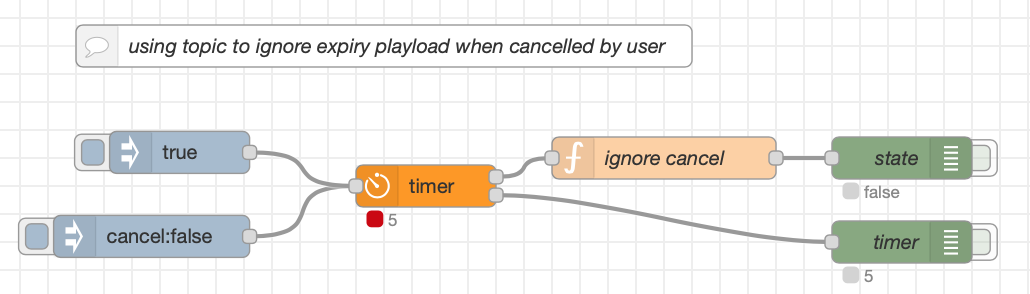
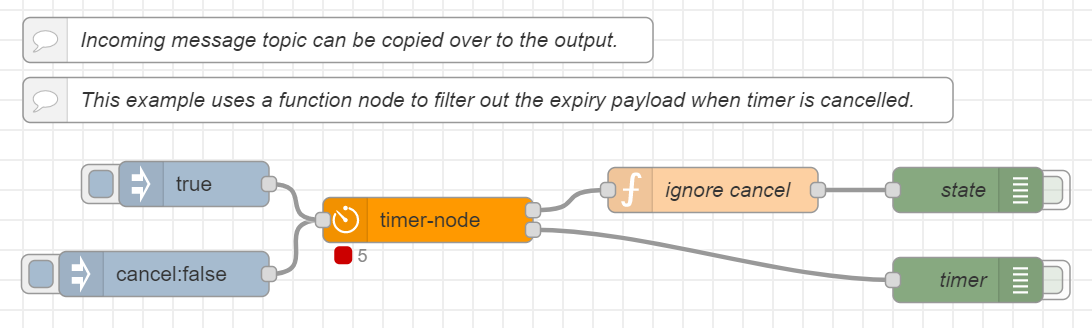
updated examples
corrected typos in examples.
provided clearer explanation of examples.
updated example images.

diff --git a/README.md b/README.md
@@ -46,26 +46,32 @@ Set expiry time with `msg.payload`:
 
 # Examples #
 
-### Using function to filter cancel by topic ###
+### Using topic to filter payload when cancelled ###
+
+When no _topic_ property is defined in the node, the incoming _topic_ is copied over to the output. This can be used to filter out the expiry payload when the timer is cancelled.
 
 ![canceling expiry](images/img_example_cancel.png)
 
 ```
-[{"id":"38a5c6e.079893a","type":"tab","label":"timer ignore cancel","disabled":false,"info":""},{"id":"b5e83fc7.69dc8","type":"debug","z":"38a5c6e.079893a","name":"state","active":false,"tosidebar":true,"console":false,"tostatus":true,"complete":"true","targetType":"full","statusVal":"payload","statusType":"auto","x":670,"y":140,"wires":[]},{"id":"6fb05b68.183e3c","type":"debug","z":"38a5c6e.079893a","name":"timer","active":false,"tosidebar":true,"console":false,"tostatus":true,"complete":"true","targetType":"full","statusVal":"payload","statusType":"auto","x":670,"y":200,"wires":[]},{"id":"72a3e721.0cc288","type":"inject","z":"38a5c6e.079893a","name":"","props":[{"p":"payload"},{"p":"topic","vt":"str"}],"repeat":"","crontab":"","once":false,"onceDelay":0.1,"topic":"cancel","payload":"false","payloadType":"bool","x":134,"y":196,"wires":[["cef7e1ee.595258"]]},{"id":"84f20a87.3a0308","type":"inject","z":"38a5c6e.079893a","name":"","props":[{"p":"payload"}],"repeat":"","crontab":"","once":false,"onceDelay":0.1,"topic":"","payload":"true","payloadType":"bool","x":154,"y":136,"wires":[["cef7e1ee.595258"]]},{"id":"48ce8bab.3c0634","type":"function","z":"38a5c6e.079893a","name":"ignore cancel","func":"if (msg.topic != 'cancel') {\n    return msg;\n}","outputs":1,"noerr":0,"initialize":"","finalize":"","x":500,"y":140,"wires":[["b5e83fc7.69dc8"]]},{"id":"cef7e1ee.595258","type":"timer","z":"38a5c6e.079893a","name":"","topic":"","timer":"5","payloadOn":"true","payloadOnType":"bool","payloadOff":"false","payloadOffType":"bool","x":330,"y":160,"wires":[["48ce8bab.3c0634"],["6fb05b68.183e3c"]]},{"id":"225ff94.486e486","type":"comment","z":"38a5c6e.079893a","name":"using topic to ignore expiry playload when cancelled by user","info":"","x":300,"y":60,"wires":[]}]
+[{"id":"38a5c6e.079893a","type":"tab","label":"ignore cancel","disabled":false,"info":""},{"id":"b5e83fc7.69dc8","type":"debug","z":"38a5c6e.079893a","name":"state","active":false,"tosidebar":true,"console":false,"tostatus":true,"complete":"true","targetType":"full","statusVal":"payload","statusType":"auto","x":670,"y":140,"wires":[]},{"id":"6fb05b68.183e3c","type":"debug","z":"38a5c6e.079893a","name":"timer","active":false,"tosidebar":true,"console":false,"tostatus":true,"complete":"true","targetType":"full","statusVal":"payload","statusType":"auto","x":670,"y":200,"wires":[]},{"id":"72a3e721.0cc288","type":"inject","z":"38a5c6e.079893a","name":"","props":[{"p":"payload"},{"p":"topic","vt":"str"}],"repeat":"","crontab":"","once":false,"onceDelay":0.1,"topic":"cancel","payload":"false","payloadType":"bool","x":134,"y":196,"wires":[["d96dea31904032b8"]]},{"id":"84f20a87.3a0308","type":"inject","z":"38a5c6e.079893a","name":"","props":[{"p":"payload"}],"repeat":"","crontab":"","once":false,"onceDelay":0.1,"topic":"","payload":"true","payloadType":"bool","x":154,"y":136,"wires":[["d96dea31904032b8"]]},{"id":"48ce8bab.3c0634","type":"function","z":"38a5c6e.079893a","name":"ignore cancel","func":"if (msg.topic != 'cancel') {\n    return msg;\n}","outputs":1,"noerr":0,"initialize":"","finalize":"","x":500,"y":140,"wires":[["b5e83fc7.69dc8"]]},{"id":"225ff94.486e486","type":"comment","z":"38a5c6e.079893a","name":"Incoming message topic can be copied over to the output.","info":"","x":250,"y":40,"wires":[]},{"id":"d96dea31904032b8","type":"timer-node","z":"38a5c6e.079893a","name":"","topic":"","timer":"5","payloadOn":"false","payloadOnType":"bool","payloadOff":"true","payloadOffType":"bool","x":310,"y":160,"wires":[["48ce8bab.3c0634"],["6fb05b68.183e3c"]]},{"id":"bd55ac20a78e44fc","type":"comment","z":"38a5c6e.079893a","name":"This example uses a function node to filter out the expiry payload when timer is cancelled.","info":"","x":350,"y":80,"wires":[]}]
 ```
 
-### message propegation ###
+### Message property propegation ###
+
+properties defined in the incoming `msg` object are copied over to the outputs. The payload is changed and topic (if defined in the node).
 
 ![msg propegation](images/img_example_msgpass.png)
 
 ```
-[{"id":"8af9695e.73126","type":"tab","label":"timer msg propegation","disabled":false,"info":""},{"id":"7fa42302.298614","type":"timer","z":"8af9695e.73126","name":"","topic":"","timer":"5","payloadOn":"true","payloadOnType":"bool","payloadOff":"false","payloadOffType":"bool","x":390,"y":160,"wires":[["3a0fe194.c88de6","40a132b2.d74a8c","d2e4815a.235dd"],["c830b39e.c0c1"]]},{"id":"43d996ab.f0fa48","type":"inject","z":"8af9695e.73126","name":"","props":[{"p":"payload"},{"p":"topic","vt":"str"},{"p":"foo","v":"bar","vt":"str"}],"repeat":"","crontab":"","once":false,"onceDelay":0.1,"topic":"object copying","payload":"true","payloadType":"bool","x":210,"y":140,"wires":[["7fa42302.298614"]]},{"id":"c830b39e.c0c1","type":"debug","z":"8af9695e.73126","name":"timer","active":false,"tosidebar":true,"console":false,"tostatus":true,"complete":"true","targetType":"full","statusVal":"payload","statusType":"auto","x":590,"y":280,"wires":[]},{"id":"3a0fe194.c88de6","type":"debug","z":"8af9695e.73126","name":"","active":false,"tosidebar":true,"console":false,"tostatus":true,"complete":"payload","targetType":"msg","statusVal":"payload","statusType":"auto","x":610,"y":140,"wires":[]},{"id":"40a132b2.d74a8c","type":"debug","z":"8af9695e.73126","name":"","active":false,"tosidebar":true,"console":false,"tostatus":true,"complete":"foo","targetType":"msg","statusVal":"payload","statusType":"auto","x":600,"y":200,"wires":[]},{"id":"d2e4815a.235dd","type":"debug","z":"8af9695e.73126","name":"","active":false,"tosidebar":true,"console":false,"tostatus":true,"complete":"topic","targetType":"msg","statusVal":"payload","statusType":"auto","x":600,"y":80,"wires":[]},{"id":"3b550efa.cdb4aa","type":"inject","z":"8af9695e.73126","name":"","props":[{"p":"payload"},{"p":"topic","vt":"str"},{"p":"foo","v":"cis boom bah","vt":"str"}],"repeat":"","crontab":"","once":false,"onceDelay":0.1,"topic":"object copying cancelled","payload":"false","payloadType":"bool","x":180,"y":220,"wires":[["7fa42302.298614"]]},{"id":"8d7ff426.ad474","type":"comment","z":"8af9695e.73126","name":"last received msg object is copied to outputs","info":"","x":210,"y":80,"wires":[]}]
+[{"id":"8af9695e.73126","type":"tab","label":"msg property propagation","disabled":false,"info":""},{"id":"43d996ab.f0fa48","type":"inject","z":"8af9695e.73126","name":"","props":[{"p":"payload"},{"p":"topic","vt":"str"},{"p":"foo","v":"bar","vt":"str"}],"repeat":"","crontab":"","once":false,"onceDelay":0.1,"topic":"object copying","payload":"true","payloadType":"bool","x":190,"y":140,"wires":[["1421f228d1843b9b"]]},{"id":"c830b39e.c0c1","type":"debug","z":"8af9695e.73126","name":"timer","active":false,"tosidebar":true,"console":false,"tostatus":true,"complete":"true","targetType":"full","statusVal":"payload","statusType":"auto","x":610,"y":280,"wires":[]},{"id":"3a0fe194.c88de6","type":"debug","z":"8af9695e.73126","name":"","active":false,"tosidebar":true,"console":false,"tostatus":true,"complete":"payload","targetType":"msg","statusVal":"payload","statusType":"auto","x":630,"y":140,"wires":[]},{"id":"40a132b2.d74a8c","type":"debug","z":"8af9695e.73126","name":"","active":false,"tosidebar":true,"console":false,"tostatus":true,"complete":"foo","targetType":"msg","statusVal":"payload","statusType":"auto","x":620,"y":200,"wires":[]},{"id":"d2e4815a.235dd","type":"debug","z":"8af9695e.73126","name":"","active":false,"tosidebar":true,"console":false,"tostatus":true,"complete":"topic","targetType":"msg","statusVal":"payload","statusType":"auto","x":620,"y":80,"wires":[]},{"id":"3b550efa.cdb4aa","type":"inject","z":"8af9695e.73126","name":"","props":[{"p":"payload"},{"p":"topic","vt":"str"},{"p":"foo","v":"cis boom bah","vt":"str"}],"repeat":"","crontab":"","once":false,"onceDelay":0.1,"topic":"object copying cancelled","payload":"false","payloadType":"bool","x":160,"y":220,"wires":[["1421f228d1843b9b"]]},{"id":"8d7ff426.ad474","type":"comment","z":"8af9695e.73126","name":"Message properties are copied over to the output.","info":"","x":200,"y":40,"wires":[]},{"id":"1421f228d1843b9b","type":"timer-node","z":"8af9695e.73126","name":"","topic":"","timer":"5","payloadOn":"false","payloadOnType":"bool","payloadOff":"true","payloadOffType":"bool","x":410,"y":180,"wires":[["d2e4815a.235dd","3a0fe194.c88de6","40a132b2.d74a8c"],["c830b39e.c0c1"]]},{"id":"c81e85b84437fd8a","type":"comment","z":"8af9695e.73126","name":"only msg.payload is changed.","info":"","x":140,"y":80,"wires":[]}]
 ```
 
 ### override msg.topic in properties ###
 
+When _topic_ is defined in the node properties, any _msg.topic_ is overriden.
+
 ![topic overriding](images/img_example_topicoverride.png)
 
 ```
-[{"id":"3f3d6774.cce2f","type":"tab","label":"timer topic overide","disabled":false,"info":""},{"id":"6eed61c1.f7a888","type":"timer","z":"3f3d6774.cce2f","name":"","topic":"overide topic","timer":"5","payloadOn":"true","payloadOnType":"bool","payloadOff":"false","payloadOffType":"bool","x":370,"y":140,"wires":[["5d48ca08.c9c664","edfec9d6.4e066"],["4e8c7759.a6b17"]]},{"id":"c11b7d9c.021958","type":"inject","z":"3f3d6774.cce2f","name":"","props":[{"p":"topic","vt":"str"},{"p":"payload"}],"repeat":"","crontab":"","once":false,"onceDelay":0.1,"topic":"ignored","payload":"true","payloadType":"bool","x":190,"y":140,"wires":[["6eed61c1.f7a888"]]},{"id":"3706780.96a0c08","type":"inject","z":"3f3d6774.cce2f","name":"","props":[{"p":"topic","vt":"str"},{"p":"payload"}],"repeat":"","crontab":"","once":false,"onceDelay":0.1,"topic":"ignored","payload":"false","payloadType":"bool","x":190,"y":220,"wires":[["6eed61c1.f7a888"]]},{"id":"5d48ca08.c9c664","type":"debug","z":"3f3d6774.cce2f","name":"","active":false,"tosidebar":true,"console":false,"tostatus":true,"complete":"topic","targetType":"msg","statusVal":"payload","statusType":"auto","x":520,"y":80,"wires":[]},{"id":"4e8c7759.a6b17","type":"debug","z":"3f3d6774.cce2f","name":"timer","active":false,"tosidebar":true,"console":false,"tostatus":true,"complete":"true","targetType":"full","statusVal":"payload","statusType":"auto","x":510,"y":240,"wires":[]},{"id":"edfec9d6.4e066","type":"debug","z":"3f3d6774.cce2f","name":"","active":false,"tosidebar":true,"console":false,"tostatus":true,"complete":"payload","targetType":"msg","statusVal":"payload","statusType":"auto","x":530,"y":140,"wires":[]},{"id":"d9fa71cd.4df948","type":"comment","z":"3f3d6774.cce2f","name":"topic override in timer properties","info":"","x":170,"y":80,"wires":[]}]
+[{"id":"3f3d6774.cce2f","type":"tab","label":"topic override","disabled":false,"info":""},{"id":"c11b7d9c.021958","type":"inject","z":"3f3d6774.cce2f","name":"","props":[{"p":"topic","vt":"str"},{"p":"payload"}],"repeat":"","crontab":"","once":false,"onceDelay":0.1,"topic":"ignored","payload":"true","payloadType":"bool","x":150,"y":140,"wires":[["bf0781a1230c42ac"]]},{"id":"3706780.96a0c08","type":"inject","z":"3f3d6774.cce2f","name":"","props":[{"p":"topic","vt":"str"},{"p":"payload"}],"repeat":"","crontab":"","once":false,"onceDelay":0.1,"topic":"ignored","payload":"false","payloadType":"bool","x":150,"y":220,"wires":[["bf0781a1230c42ac"]]},{"id":"5d48ca08.c9c664","type":"debug","z":"3f3d6774.cce2f","name":"","active":false,"tosidebar":true,"console":false,"tostatus":true,"complete":"topic","targetType":"msg","statusVal":"payload","statusType":"auto","x":560,"y":100,"wires":[]},{"id":"4e8c7759.a6b17","type":"debug","z":"3f3d6774.cce2f","name":"timer","active":false,"tosidebar":true,"console":false,"tostatus":true,"complete":"true","targetType":"full","statusVal":"payload","statusType":"auto","x":550,"y":260,"wires":[]},{"id":"edfec9d6.4e066","type":"debug","z":"3f3d6774.cce2f","name":"","active":false,"tosidebar":true,"console":false,"tostatus":true,"complete":"payload","targetType":"msg","statusVal":"payload","statusType":"auto","x":570,"y":160,"wires":[]},{"id":"d9fa71cd.4df948","type":"comment","z":"3f3d6774.cce2f","name":"When topic is defined in node properties it overrides the incoming message topic.","info":"","x":320,"y":40,"wires":[]},{"id":"bf0781a1230c42ac","type":"timer-node","z":"3f3d6774.cce2f","name":"","topic":"override topic","timer":"5","payloadOn":"false","payloadOnType":"bool","payloadOff":"true","payloadOffType":"bool","x":350,"y":160,"wires":[["5d48ca08.c9c664","edfec9d6.4e066"],["4e8c7759.a6b17"]]}]
 ```
